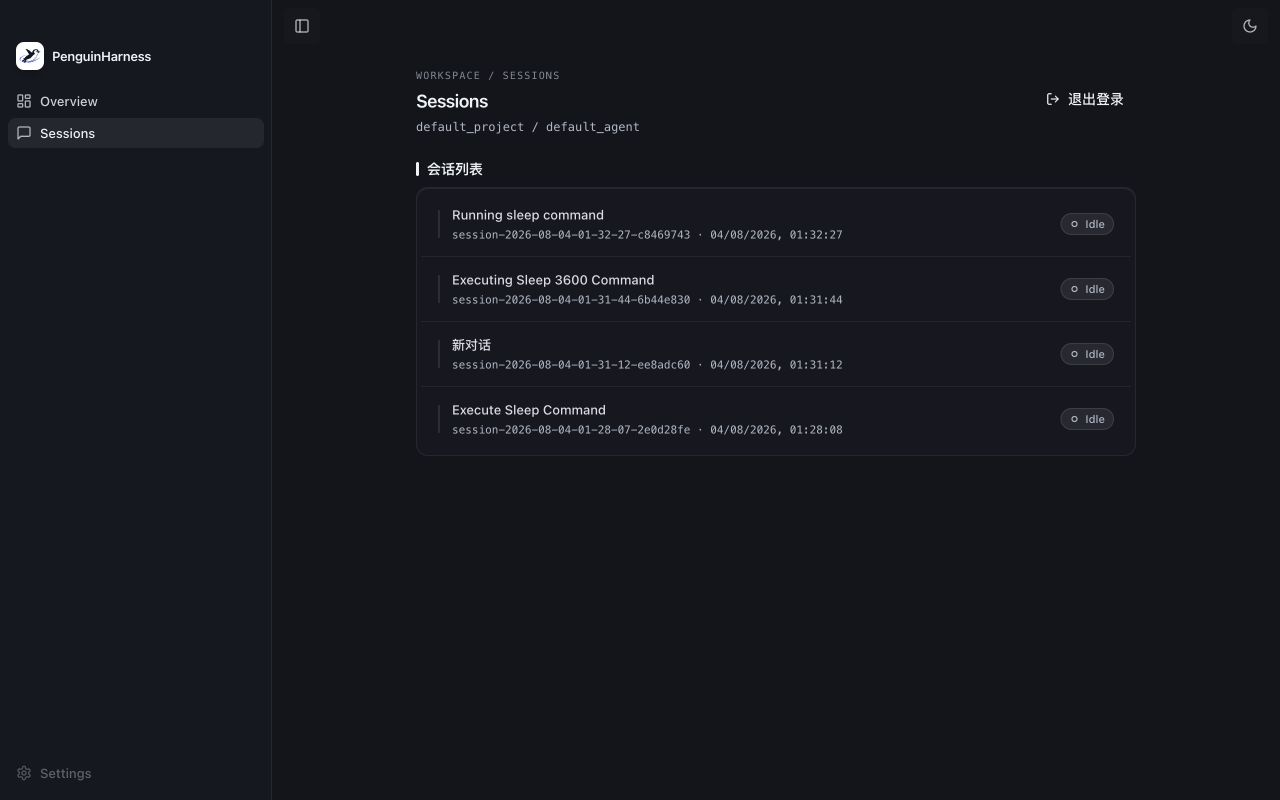
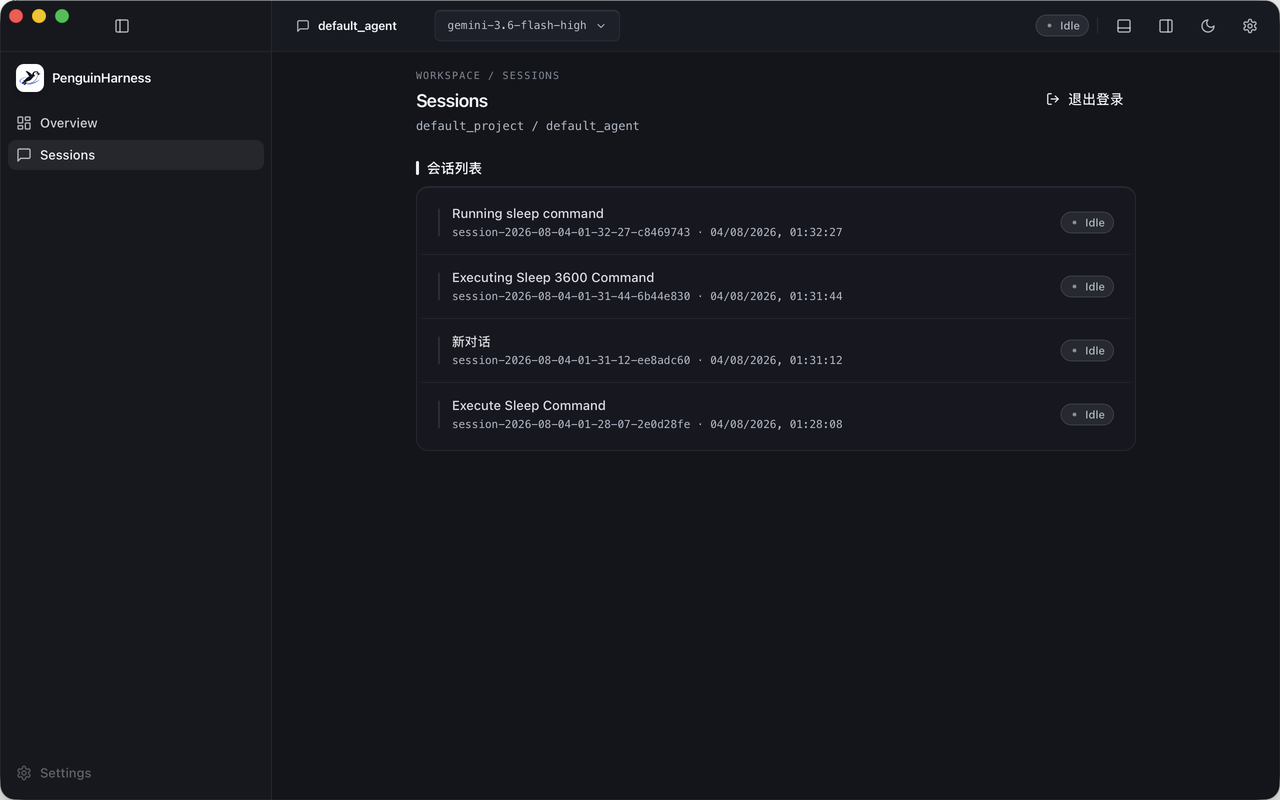
style: stage-3 visual optimization round 2 — integrate Codex-style native topbar

diff --git a/src/app/AppShell.tsx b/src/app/AppShell.tsx
@@ -1,12 +1,21 @@
 import { useState } from "react";
 import { Outlet, useLocation, useNavigate } from "react-router-dom";
-import { BrandMark, Button, SidebarItem } from "../design-system/components";
 import {
+  BrandMark,
+  Button,
+  SidebarItem,
+  StatusBadge,
+} from "../design-system/components";
+import {
+  ChevronDownIcon,
   LayoutDashboardIcon,
   MessageSquareIcon,
   MonitorIcon,
   MoonIcon,
+  PanelBottomIcon,
   PanelLeftIcon,
+  PanelRightIcon,
+  PencilIcon,
   SettingsIcon,
   SunIcon,
 } from "../design-system/icons";
@@ -27,7 +36,7 @@ const themeTitles: Record<ThemeMode, string> = {
 /*
  * Layout constants from visual memory §3:
  *   sidebar 272px, collapses to w-0 + opacity-0 (no icon rail), 200ms ease-out
- *   top bar ~52px (32px controls + py-2.5), macOS titlebar spacer 38px
+ *   top bar 52px; Tauri overlay folds the native macOS titlebar into it
  *   sidebar plane: --sidebar-bg, 1px border/50 divider
  */
 export default function AppShell() {
@@ -38,77 +47,151 @@ export default function AppShell() {
   const ThemeIcon = themeIcons[mode];
 
   return (
-    <div className="flex h-screen overflow-hidden bg-background text-foreground">
-      <aside
-        className={`shrink-0 overflow-hidden border-r border-border/50 bg-[hsl(var(--sidebar-bg))] transition-[width,opacity] duration-200 ease-out ${
-          collapsed ? "w-0 border-transparent opacity-0" : "w-[272px] opacity-100"
-        }`}
+    <div className="flex h-screen flex-col overflow-hidden bg-background text-foreground">
+      {/*
+       * Single integrated macOS titlebar. Tauri's Overlay style places the
+       * native traffic lights above this 52px web surface, matching Codex's
+       * one-bar composition instead of stacking a native bar and app header.
+       */}
+      <header
+        data-tauri-drag-region
+        className="flex h-[52px] shrink-0 border-b border-border/50"
       >
-        {/* fixed inner width so content never squishes during the collapse */}
-        <div className="flex h-full w-[272px] flex-col">
-          {/* macOS titlebar spacer (38px) — traffic lights live here */}
-          <div data-tauri-drag-region className="h-[38px] shrink-0" />
-          <div className="flex items-center gap-2 px-4 pb-1 pt-1">
-            <BrandMark size="sm" />
-            <span className="text-[13px] font-semibold tracking-tight text-foreground">
-              PenguinHarness
-            </span>
-          </div>
-          <nav className="flex-1 space-y-0.5 overflow-y-auto px-2 pt-3">
-            <SidebarItem
-              icon={<LayoutDashboardIcon />}
-              active={pathname === "/"}
-              onClick={() => navigate("/")}
-            >
-              Overview
-            </SidebarItem>
-            <SidebarItem
-              icon={<MessageSquareIcon />}
-              active={pathname.startsWith("/sessions")}
-              onClick={() => navigate("/sessions")}
-            >
-              Sessions
-            </SidebarItem>
-          </nav>
-          <div className="px-2 pb-3">
-            <SidebarItem icon={<SettingsIcon />} disabled title="阶段 4 开放">
-              Settings
-            </SidebarItem>
-          </div>
-        </div>
-      </aside>
-
-      <div className="flex min-w-0 flex-1 flex-col">
-        <header
+        <div
           data-tauri-drag-region
-          className={`flex h-[52px] shrink-0 items-center gap-1 px-3 py-2.5 ${
-            collapsed ? "pl-20" : ""
+          className={`flex h-full shrink-0 items-center border-r border-border/50 bg-[hsl(var(--sidebar-bg))] transition-[width] duration-200 ease-out ${
+            collapsed ? "w-[148px]" : "w-[272px]"
           }`}
         >
+          {/* Native traffic-light safe zone; still draggable between buttons. */}
+          <div data-tauri-drag-region className="h-full w-[104px] shrink-0" />
           <Button
             variant="ghost"
             size="icon"
-            className="h-8 w-8 rounded-lg bg-surface-panel/65 text-foreground/70 hover:bg-surface-raised"
+            className="h-8 w-8 shrink-0 rounded-lg text-foreground/70 hover:bg-surface-raised"
             title={collapsed ? "展开侧栏" : "收起侧栏"}
             onClick={() => setCollapsed((c) => !c)}
           >
             <PanelLeftIcon className="h-4 w-4" />
           </Button>
-          {/* drag region fills the middle of the bar */}
-          <div data-tauri-drag-region className="h-full flex-1" />
+          <div data-tauri-drag-region className="h-full min-w-3 flex-1" />
+        </div>
+
+        <div
+          data-tauri-drag-region
+          className="flex h-full min-w-0 flex-1 items-center gap-1.5 bg-surface-panel px-3"
+        >
+          {/* Stage 3 context placeholders. Stage 4 binds route state + rename. */}
+          <Button
+            variant="ghost"
+            size="sm"
+            className="group h-8 min-w-0 max-w-[172px] justify-start gap-1.5 rounded-lg px-2 text-[12px] font-semibold tracking-tight hover:bg-surface-raised"
+            title="当前 Agent：default_agent（阶段 4 接入重命名）"
+          >
+            <MessageSquareIcon className="h-3.5 w-3.5 shrink-0 text-muted-foreground" />
+            <span className="truncate">default_agent</span>
+            <PencilIcon className="h-3 w-3 shrink-0 text-muted-foreground/0 transition-colors duration-150 group-hover:text-muted-foreground" />
+          </Button>
+
+          <Button
+            variant="ghost"
+            size="sm"
+            className="h-8 min-w-0 max-w-[224px] justify-start gap-1.5 rounded-lg border border-border/50 bg-surface-raised px-2.5 font-mono text-[11px] font-medium text-foreground/75 shadow-rim hover:bg-surface-focus hover:text-foreground"
+            title="当前模型：gemini-3.6-flash-high（阶段 4 接入模型列表）"
+          >
+            <span className="truncate">gemini-3.6-flash-high</span>
+            <ChevronDownIcon className="h-3 w-3 shrink-0 text-muted-foreground" />
+          </Button>
+
+          {/* Keep a generous native drag target between context and controls. */}
+          <div data-tauri-drag-region className="h-full min-w-8 flex-1" />
+
+          <StatusBadge status="idle" className="shrink-0">
+            Idle
+          </StatusBadge>
+          <span aria-hidden className="mx-0.5 h-4 w-px shrink-0 bg-border/70" />
           <Button
             variant="ghost"
             size="icon"
-            className="h-8 w-8 rounded-lg bg-surface-panel/65 text-foreground/70 hover:bg-surface-raised"
+            className="h-8 w-8 shrink-0 rounded-lg text-foreground/70 hover:bg-surface-raised"
+            title="切换底部面板（阶段 4 开放）"
+            aria-label="切换底部面板（阶段 4 开放）"
+          >
+            <PanelBottomIcon className="h-4 w-4" />
+          </Button>
+          <Button
+            variant="ghost"
+            size="icon"
+            className="h-8 w-8 shrink-0 rounded-lg text-foreground/70 hover:bg-surface-raised"
+            title="切换右侧面板（阶段 4 开放）"
+            aria-label="切换右侧面板（阶段 4 开放）"
+          >
+            <PanelRightIcon className="h-4 w-4" />
+          </Button>
+          <Button
+            variant="ghost"
+            size="icon"
+            className="h-8 w-8 shrink-0 rounded-lg text-foreground/70 hover:bg-surface-raised"
             title={themeTitles[mode]}
             onClick={cycle}
           >
             <ThemeIcon className="h-4 w-4" />
           </Button>
-        </header>
-        <main className="min-h-0 flex-1 overflow-y-auto">
-          <Outlet />
-        </main>
+          <Button
+            variant="ghost"
+            size="icon"
+            className="h-8 w-8 shrink-0 rounded-lg text-foreground/70 hover:bg-surface-raised"
+            title="设置（阶段 4 开放）"
+            aria-label="设置（阶段 4 开放）"
+          >
+            <SettingsIcon className="h-4 w-4" />
+          </Button>
+        </div>
+      </header>
+
+      <div className="flex min-h-0 flex-1">
+        <aside
+          className={`shrink-0 overflow-hidden border-r border-border/50 bg-[hsl(var(--sidebar-bg))] transition-[width,opacity] duration-200 ease-out ${
+            collapsed ? "w-0 border-transparent opacity-0" : "w-[272px] opacity-100"
+          }`}
+        >
+          {/* fixed inner width so content never squishes during the collapse */}
+          <div className="flex h-full w-[272px] flex-col">
+            <div className="flex items-center gap-2 px-4 pb-1 pt-3">
+              <BrandMark size="sm" />
+              <span className="text-[13px] font-semibold tracking-tight text-foreground">
+                PenguinHarness
+              </span>
+            </div>
+            <nav className="flex-1 space-y-0.5 overflow-y-auto px-2 pt-3">
+              <SidebarItem
+                icon={<LayoutDashboardIcon />}
+                active={pathname === "/"}
+                onClick={() => navigate("/")}
+              >
+                Overview
+              </SidebarItem>
+              <SidebarItem
+                icon={<MessageSquareIcon />}
+                active={pathname.startsWith("/sessions")}
+                onClick={() => navigate("/sessions")}
+              >
+                Sessions
+              </SidebarItem>
+            </nav>
+            <div className="px-2 pb-3">
+              <SidebarItem icon={<SettingsIcon />} disabled title="阶段 4 开放">
+                Settings
+              </SidebarItem>
+            </div>
+          </div>
+        </aside>
+
+        <div className="flex min-w-0 flex-1 flex-col">
+          <main className="min-h-0 flex-1 overflow-y-auto">
+            <Outlet />
+          </main>
+        </div>
       </div>
     </div>
   );

diff --git a/src/design-system/icons.tsx b/src/design-system/icons.tsx
@@ -27,6 +27,41 @@ export function PanelLeftIcon(props: ComponentProps<"svg">) {
   );
 }
 
+export function PanelBottomIcon(props: ComponentProps<"svg">) {
+  return (
+    <IconBase {...props}>
+      <rect width="18" height="18" x="3" y="3" rx="2" />
+      <path d="M3 15h18" />
+    </IconBase>
+  );
+}
+
+export function PanelRightIcon(props: ComponentProps<"svg">) {
+  return (
+    <IconBase {...props}>
+      <rect width="18" height="18" x="3" y="3" rx="2" />
+      <path d="M15 3v18" />
+    </IconBase>
+  );
+}
+
+export function ChevronDownIcon(props: ComponentProps<"svg">) {
+  return (
+    <IconBase {...props}>
+      <path d="m6 9 6 6 6-6" />
+    </IconBase>
+  );
+}
+
+export function PencilIcon(props: ComponentProps<"svg">) {
+  return (
+    <IconBase {...props}>
+      <path d="M12 20h9" />
+      <path d="M16.5 3.5a2.12 2.12 0 0 1 3 3L8 18l-4 1 1-4Z" />
+    </IconBase>
+  );
+}
+
 export function SunIcon(props: ComponentProps<"svg">) {
   return (
     <IconBase {...props}>

diff --git a/src/design-system/components/StatusBadge.tsx b/src/design-system/components/StatusBadge.tsx
@@ -2,6 +2,7 @@ import type { ReactNode } from "react";
 import { cn } from "../cn";
 
 export type BadgeStatus =
+  | "idle"
   | "queued"
   | "running"
   | "blocked"
@@ -16,6 +17,7 @@ export interface StatusBadgeProps {
 }
 
 const statusLabels: Record<BadgeStatus, string> = {
+  idle: "Idle",
   queued: "Queued",
   running: "Running",
   blocked: "Blocked",
@@ -25,6 +27,14 @@ const statusLabels: Record<BadgeStatus, string> = {
 
 function StatusGlyph({ status }: { status: BadgeStatus }) {
   const shared = "h-2.5 w-2.5 shrink-0 animate-status-glyph";
+
+  if (status === "idle") {
+    return (
+      <svg aria-hidden viewBox="0 0 12 12" className={shared} fill="none">
+        <circle cx="6" cy="6" r="2.25" fill="currentColor" fillOpacity="0.72" />
+      </svg>
+    );
+  }
 
   if (status === "running") {
     return (

diff --git a/src/design-system/motion.css b/src/design-system/motion.css
@@ -22,10 +22,11 @@
    * ---- §7.6 status semantics — stage-3 upgrade ----
    * HSL triplets; use hsl(var(--status-*)) or hsl(var(--status-*) / a).
    * running  → --chat-running (purple), complete → --chat-success,
-   * failed   → --chat-error,  queued   → --muted-foreground,
+   * failed   → --chat-error,  idle / queued → --muted-foreground,
    * blocked  → amber 38 92% 50% (brief-specified; dark uses the existing
    *            tool-search-accent amber 38 90% 66% so no new hue is invented).
    */
+  --status-idle: var(--muted-foreground);
   --status-queued: var(--muted-foreground);
   --status-running: var(--chat-running);
   --status-blocked: 38 92% 50%;

diff --git a/src/features/sessions/SessionsPage.tsx b/src/features/sessions/SessionsPage.tsx
@@ -19,7 +19,7 @@ import { LogOutIcon } from "../../design-system/icons";
 /** Server session states → badge semantics (idle rests gray, busy states pulse). */
 const statusToBadge: Record<SessionStatus, { badge: BadgeStatus; label: string }> =
   {
-    idle: { badge: "queued", label: "Idle" },
+    idle: { badge: "idle", label: "Idle" },
     running: { badge: "running", label: "Running" },
     compacting: { badge: "running", label: "Compacting" },
   };
